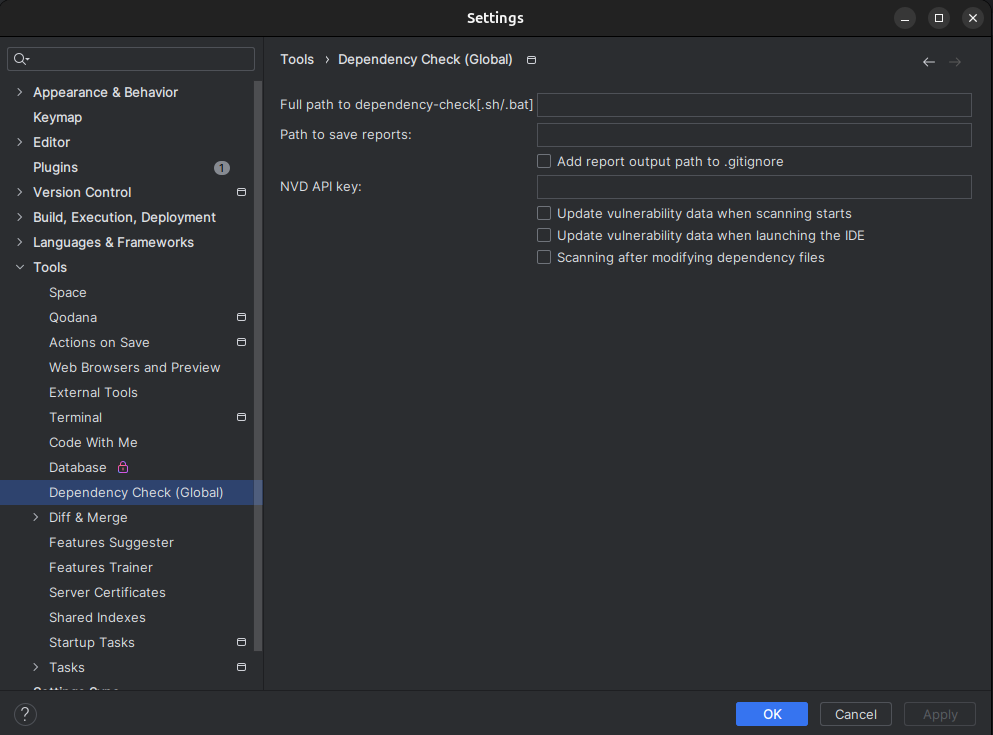
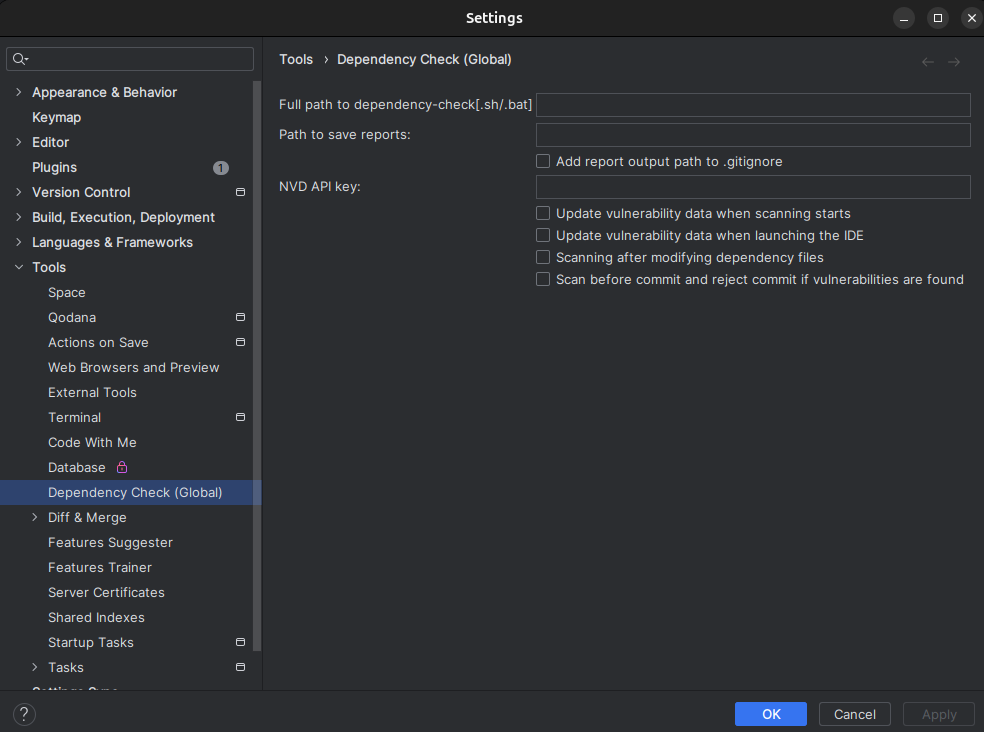
docs: fix README.md

diff --git a/README.md b/README.md
@@ -99,17 +99,21 @@ gradlew.bat test
 - `Full path to dependency-checg[.sh/.bat]` - обязательное значение. Путь до скрипта анализатора. .sh и .bat для
 Linux/Mac и Windows, соответственно.
 Пример значения: `/home/kekov/Desktop/dependency-check-9.2.0-release/dependency-check/bin/dependency-check.sh`
-- `Path to save reports` - опциональное значение. Полный путь директории для сохранения результатов сканирования. По умолчанию 
+- `Path to save reports` - опциональное значение. Полный путь директории для сканирования. По умолчанию 
 они сохраняются в папку `.dependency-check` в корневой директории открытого проекта.
 - `NVD API Key` - обязательное значение. Ключ для NVD API.
 - `Add report output path to .gitignore` - добавлять ли директорию с результатами сканирования в `.gitignore`. Если
-до этого она была добавлена и после убрать галочку, то указание из `.gitignore` будет удалено
+до этого она была добавлена и после убрать галочку, то указание из `.gitignore` будет удалено. Если был указан
+не стандартный путь сохранения результатов, то добавит указание в `.gitignore` только если этот путь находится в 
+пределах директории открытого проекта.
 - `Update vulnerability data when scanning starts` - обновлять ли локальный репозиторий уязвимостей при каждом запуске
 сканирования.
 - `Update vulnerability data when launching the IDE` - обновлять ли локальный репозиторий уязвимостей при каждом запуске
   IDE.
 - `Scanning after modifying dependency files` - запускать ли сканирование при каждом изменении файлов с зависимостями.
-Может работать с небольшой задержкой, в качестве подобных файлов добавлены все поддерживаемые сканером форматы, кроме .js
+Может работать с небольшой задержкой, в качестве подобных файлов добавлены все поддерживаемые сканером форматы, кроме `.js`.
+- `Scan before commit and reject commit if vulnerabilities are found` - запрашивать ли запуск сканирования
+при коммите и запрещать ли коммит при найденных уязвимостях.
 
 Само сканирование запускается по кнопке `Start Scan`:
 ![Start](doc/pic/start.png)
@@ -133,7 +137,8 @@ Linux/Mac и Windows, соответственно.
 При выборе опции обновления при каждом старте IDE его прогресс выводится в виде виджета:  
 ![Widget](doc/pic/widget.png)
 
-При попытке сделать коммит, изначально будет сообщение о том, что нужно запустить сканирование вручную:
+При попытке сделать коммит и выбранном значении `Scan before commit and reject commit if vulnerabilities are found`
+в настройках, изначально будет сообщение о том, что нужно запустить сканирование вручную:
 ![Commit](doc/pic/commit.png)
 
 Если уязвимости были найдены, то при попытке коммита он не даст его сделать:
